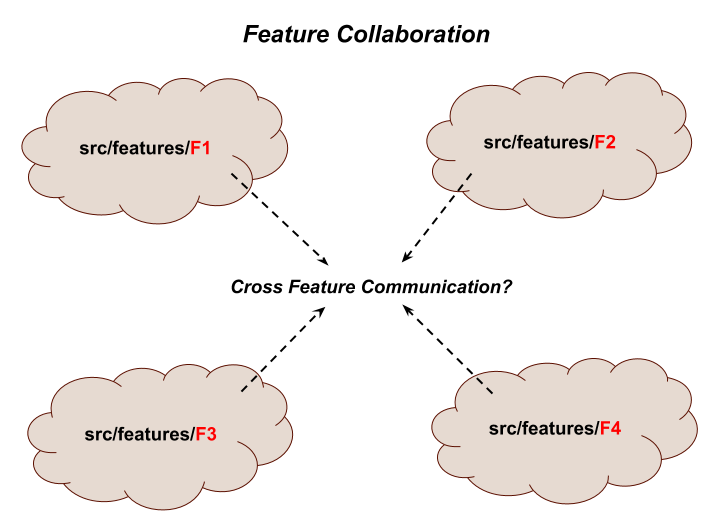
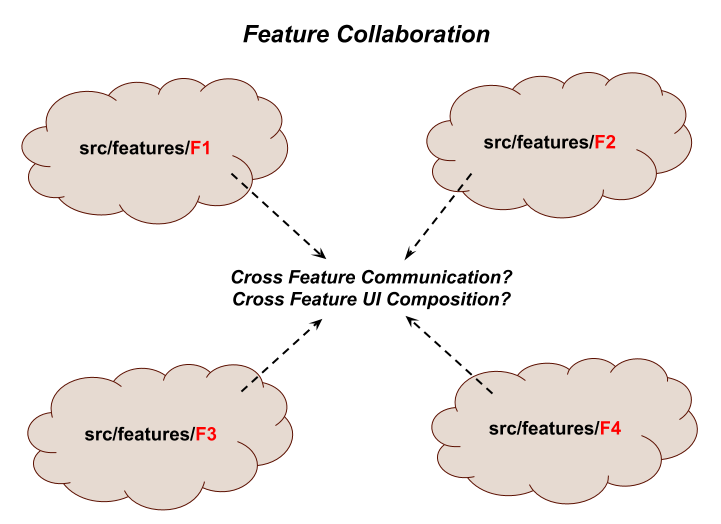
V1 Article Backup

diff --git a/docs/article/V1/articleV1.md b/docs/article/V1/articleV1.md
@@ -48,16 +48,17 @@ collaboration**!
 TK:medium-resolve-internal-links
 
 - [Feature Based Development] ... _think of features as mini applications_
-- [Segregating Features] ... _divide your features into project directories_
-- [Feature Goals] ... _what are the goals of feature based development_
-- [Feature Runtime Consolidation] ... _how do multiple features run as one application?_
-  - [feature-u Runtime Consolidation]  ... _the **feature-u** solution for runtime consolidation_
-    - [launchApp()]
-    - [Feature Object]
-    - [aspects]
-    - [Running the App]
-- [Feature Collaboration] ... _how do features cross communicate without breaking encapsulation?_
-  - [feature-u Cross Communication]  ... _the **feature-u** solution for feature collaboration_
+  - [Segregating Features] ... _divide your features into directories_
+  - [Feature Goals] ... _what are the goals and hurdles of feature based development_
+    - [Feature Runtime Consolidation] ... _how do multiple features run as one application?_
+    - [Feature Collaboration] ... _how do features cross communicate without breaking encapsulation?_
+- [The feature-u Solution] ... _how can **feature-u** help?_
+  - [launchApp()]
+  - [Feature Object]
+  - [aspects]
+  - [Running the App]
+    - [App Initialization]
+    - [Framework Configuration]
 
 
 <!--- ? consider refactoring diagram to use 3 features patterned after concepts
@@ -143,12 +144,11 @@ hurdles** that must be overcome to realize our goal ...
 - How do we enable/disable selected features which are either
   optional, or require a license upgrade?
 
-- **In short**, how do we achieve a running application from these
-  isolated features?
+**In short**, how do we achieve a running application from these
+isolated features?
 
 When you boil it all down, there are **two overriding
-characteristics** that must be accomplished to achieve our goals
-_(everything else are byproducts of these two artifacts)_:
+characteristics** that must be accomplished to achieve our goals:
 
 <!--- ? Other Words: Accumulate, Consolidate, Pull/Bring together, Unite, Combine, Amalgamate, Join, Fuse, Unify ---> 
 
@@ -156,7 +156,9 @@ _(everything else are byproducts of these two artifacts)_:
 
 2. **[Feature Collaboration]**: _provide a mechanism by which our features can interact with one another_
 
-Let's take a closer look at each of these items.
+
+As it turns out, _everything else is a byproduct of these two
+artifacts_. Let's take a closer look at each of these items.
 
 
 <!--- ? OLD WORDS
@@ -236,104 +238,9 @@ This concern can be further divided into two sub-concerns:
   ---> 
 
 
-
-
-## feature-u Runtime Consolidation
-
-What is **feature-u**'s solution for [Feature Runtime Consolidation]?
-... _glad you asked ... let's break it down ..._
-
-
-
-### launchApp()
-
-[`launchApp()`] is a crucial utility in **feature-u**.  It is the agent,
-working on your behalf, that pretty much **accomplishes all the
-goals** of **feature-u**!
-With this utility, **your mainline startup process is extremely
-simple** ... it merely invokes `launchApp()`, and you are done (**easy
-peasy**)!
-
-<p align="center"><img src="img/intro_launchApp.png" alt="launchApp()" width="50%"></p>
-
-The `launchApp()` function actually starts your application running,
-employing various hooks that drive BOTH **App Initialization** and
-**Framework Configuration**!
-
-**How does this work?** ... _glad you asked ... keep reading ... we
-are building our **feature-u** concepts incrementally!_
-
-
-### Feature Object
-
-To accomplish this, each feature promotes a [`Feature`] object (using
-[`createFeature()`]), that catalogs aspects of interest to
-**feature-u**.
-
-<p align="center"><img src="img/intro_Feature.png" alt="Feature Object" width="50%"></p>
-
-
-### aspects
-
-In **feature-u**, "aspect" _(little "a")_ is a generalized term used
-to refer to the various ingredients that (when combined) constitute
-your application.  Aspects can take on many different forms: **UI
-Components** &bull; **Routes** &bull; **State Management** _(actions,
-reducers, selectors)_ &bull; **Business Logic** &bull; **Startup
-Initialization Code** &bull; _etc. etc. etc._
-
-**Not all aspects are of interest to feature-u** ...  _only those that
-are needed to setup and launch the application_ ... all others are
-considered an internal implementation detail of the feature.  As an
-example, consider the redux state manager: while it uses actions,
-reducers, and selectors ... only reducers are needed to setup and
-configure redux.
-
-<p align="center"><img src="img/intro_AspectContent.png" alt="AspectContent" width="70%"></p>
-
-The [`Feature`] object is merely a lightweight container that holds
-aspects of interest to **feature-u**.  These aspects can either be
-**built-in** (from core **feature-u**), or **extensions**.
-
-
-### Running the App
-
-Let's see how [`launchApp()`] accomodates the two sub-goals of runing the app:
-
-- App Initialization
-
-  ?? refine words
-
-  becase launchApp() is in control of starting the app, it can introduce ??link application life cycle events
-
-  this allows each feature to spawn start-up initialization processes
-
-  there are two hooks ??
-
-  <p align="center"><img src="img/intro_AppInit.png" alt="App Initialization" width="80%"></p>
-
-- Framework Configuration
-
-  ??? CURRENT POINT ???
-
-  ?? refine words
-
-  how can this be accomplished when there are so many frameworks out there
-  ... and every project uses a different mix
-
-  feature-u is extendable via Aspect plugins
-
-                       ??? DIAGRAM: showing Aspects being pulled in
-                                    - emphasize this in the Feature.aspects that are promoted
-                                      ... an Aspect extends what can be collected in a Feature
-                                    - basically extended Feature.aspect
-
-
-
-
 ## Feature Collaboration
 
-The second overriding goal (mentioned above) was **Feature
+The second overriding goal (mentioned above) is **Feature
 Collaboration** - _providing a mechanism by which our features can
 interact with one another_.
 
@@ -360,8 +267,8 @@ it's aspects to other features.  For example, a feature may need to:
  - invoke the API of other features
  - etc. etc. etc.
 
-These items form the basis of why **Cross Feature Communication** is
-needed.
+These items form the basis of why **Cross Feature Communication** and
+**Cross Feature UI Composition** is needed.
 
 <p align="center"><img src="img/featureCollaboration.png" alt="Feature Collaboration" width="60%"></p>
 
@@ -413,9 +320,132 @@ How feature-u assists in:
  ---> 
 
 
+## The feature-u Solution
+
+Let's take a look at the **feature-u** solution for all of theses
+items.  In the following sections, we will be building **feature-u**
+concepts incrementally.
+
+
+
+### launchApp()
+
+[`launchApp()`] is a crucial utility in **feature-u**.  It is an
+agent, working on your behalf, which provides the foundation that
+pretty much **accomplishes all the goals** of **feature-u**!  It
+facilitates both **[Feature Runtime Consolidation]** and **[Feature
+Collaboration]**.
+
+With this utility, **your mainline startup process is extremely
+simple** ... it merely invokes `launchApp()`, and you are done!
+
+<p align="center"><img src="img/intro_launchApp.png" alt="launchApp()" width="50%"></p>
+
+The `launchApp()` function actually starts your application running,
+employing various hooks that drive BOTH **App Initialization** and
+**Framework Configuration**!
+
+**How does this work?  _What are the bindings to `launchApp()`_**?
+... _keep reading_
+
+
+### Feature Object
+
+To accomplish this, each feature promotes a [`Feature`] object _(using
+[`createFeature()`])_, that catalogs aspects of interest to
+**feature-u**.
+
+This is the primary input to [`launchApp()`].
+
+<p align="center"><img src="img/intro_Feature.png" alt="Feature Object" width="50%"></p>
+
+
+### aspects
+
+In **feature-u**, "aspect" _(little "a")_ is a generalized term used
+to refer to the various ingredients that (when combined) constitute
+your application.  Aspects can take on many different forms: **UI
+Components** &bull; **Routes** &bull; **State Management** _(actions,
+reducers, selectors)_ &bull; **Business Logic** &bull; **Startup
+Initialization Code** &bull; _etc. etc. etc._
+
+**Not all aspects are of interest to feature-u** ...  _only those that
+are needed to setup and launch the application_ ... all others are
+considered an internal implementation detail of the feature.  As an
+example, consider the redux state manager: while it uses actions,
+reducers, and selectors ... only reducers are needed to setup and
+configure redux.
+
+<p align="center"><img src="img/intro_AspectContent.png" alt="AspectContent" width="70%"></p>
+
+The [`Feature`] object is merely a lightweight container that holds
+aspects of interest to **feature-u**.  These aspects can either be
+**built-in** (from core **feature-u**), or **extensions**.
+
+
+### Running the App
+
+Let's see how [`launchApp()`] accomodates the two sub-goals of runing the app:
+
+- [App Initialization]
+- [Framework Configuration]
+
+### App Initialization
+
+Becase `launchApp()` is in control of starting the app, it can
+introduce [Application Life Cycle Hooks].
+
+This allows each feature to perform app-specific initialization, and
+even inject components into the root of the app.
+
+There are two hooks:
+
+1. [`Feature.appWillStart`] - invoked one time at app startup time
+2. [`Feature.appDidStart`]   - invoked one time immediately after app has started
+
+<p align="center"><img src="img/intro_AppInit.png" alt="App Initialization" width="80%"></p>
+
+[Application Life Cycle Hooks] **greatly simplify your app's mainline
+startup process**, because _initialization specific to a given feature
+**can be encapsulated in that feature**_.
+
+### Framework Configuration
+
+??? CURRENT POINT ???
+
+?? refine words
+
+A fundamental goal of **feature-u** is to **automatically configure
+the framework(s)** used in your run-time-stack _(by accumulating the
+necessary resources across all your features)_.
+
+?? this greatly reduces the boilerplate code within your app.
+
+?? How can this be accomplished when there are so many frameworks out there
+... and every project uses a different mix
+
+?? feature-u is extendable via Aspect plugins
+
+Because not everyone uses the same frameworks, **feature-u**
+accomplishes this through **Extendable Aspects** _(you can find them
+in external NPM packages, or you can create your own)_.
+
+                       ??? DIAGRAM: showing Aspects being pulled in
+                                    - emphasize this in the Feature.aspects that are promoted
+                                      ... an Aspect extends what can be collected in a Feature
+                                    - basically extended Feature.aspect
+
+It is important to understand that the interface to your chosen
+frameworks is not altered in any way.  You use them the same way you
+always have _(just within your feature boundary)_.  **feature-u**
+merely provides a well defined organizational layer, where the
+frameworks are automatically setup and configured by accumulating the
+necessary resources across all your features.
 
 
 ## feature-u Cross Communication
+
+?? this section has been eliminated
 
 What is **feature-u**'s solution for [Feature Collaboration]?
 ... _glad you asked ... let's break it down ..._ ?? too much repreated phrase
@@ -484,21 +514,20 @@ What is **feature-u**'s solution for [Feature Collaboration]?
 
 <!--- ?? internal references ---> 
 
-[Feature Based Development]:           #feature-based-development
-[Segregating Features]:                #segregating-features
-[Feature Goals]:                       #feature-goals
-[Feature Runtime Consolidation]:       #feature-runtime-consolidation
-  [feature-u Runtime Consolidation]:   #feature-u-runtime-consolidation
-
-  [launchApp()]:                       #launchapp
-  [Feature Object]:                    #feature-object
-  [aspects]:                           #aspects
-  [Running the App]:                   #running-the-app
-
-[Feature Collaboration]:               #feature-collaboration
-  [feature-u Cross Communication]:     #feature-u-cross-communication
+[Feature Based Development]:          #feature-based-development
+ [Segregating Features]:              #segregating-features
+ [Feature Goals]:                     #feature-goals
+  [Feature Runtime Consolidation]:    #feature-runtime-consolidation
+  [Feature Collaboration]:            #feature-collaboration
+[The feature-u Solution]:             #the-feature-u-solution
+ [launchApp()]:                       #launchapp
+ [Feature Object]:                    #feature-object
+ [aspects]:                           #aspects
+ [Running the App]:                   #running-the-app
+  [App Initialization]:               #app-initialization
+  [Framework Configuration]:          #framework-configuration
                                        
-[References]:                          #references
+[References]:                         #references
 
 
 
@@ -537,6 +566,8 @@ What is **feature-u**'s solution for [Feature Collaboration]?
 [Cross Feature Communication]:  https://feature-u.js.org/1.0.0/crossCommunication.html
 [UI Composition]:               https://feature-u.js.org/1.0.0/crossCommunication.html#ui-composition
 [Application Life Cycle Hooks]: https://feature-u.js.org/1.0.0/appLifeCycle.html
+[`Feature.appWillStart`]:       https://feature-u.js.org/1.0.0/appLifeCycle.html#appwillstart
+[`Feature.appDidStart`]:        https://feature-u.js.org/1.0.0/appLifeCycle.html#appdidstart
 [Built-In aspect]:              https://feature-u.js.org/1.0.0/detail.html#built-in-aspects
 [Feature Enablement]:           https://feature-u.js.org/1.0.0/enablement.html
 [Managed Code Expansion]:       https://feature-u.js.org/1.0.0/crossCommunication.html#managed-code-expansion
